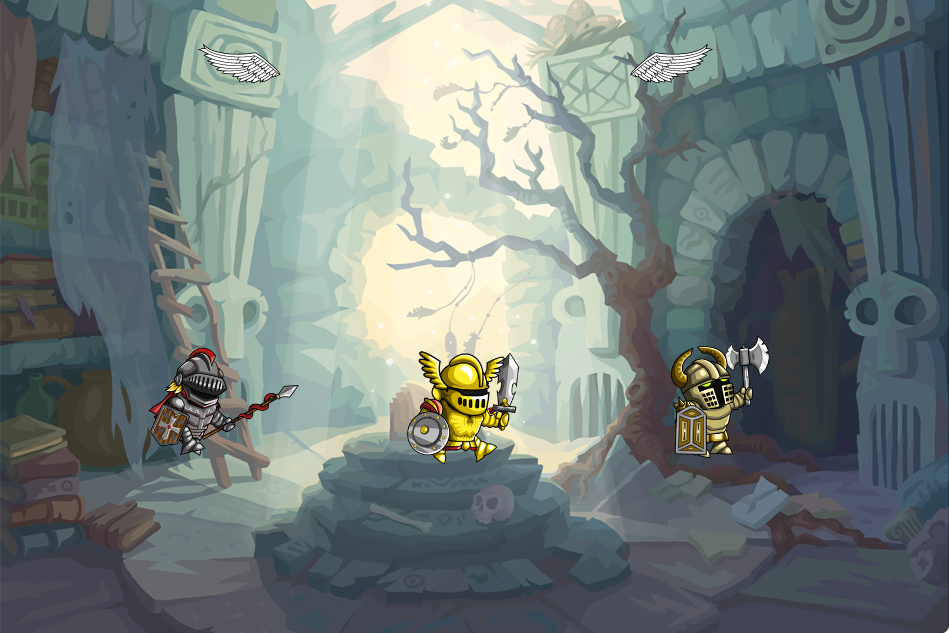
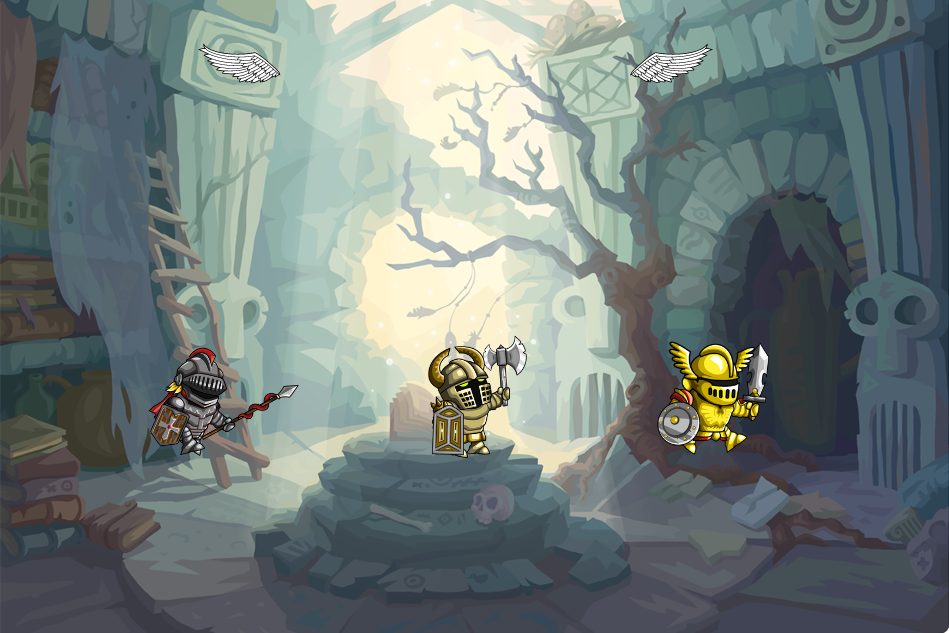
Cập nhật chọn nhân vật
Update thêm ảnh và thứ tự của Class để chọn được nhân vật.

Changed region(s): [[0.4278, 0.5403, 0.5806, 0.7504], [0.6723, 0.5403, 0.8251, 0.7204]]

diff --git a/Bao's test game/Foundation.py b/Bao's test game/Foundation.py
@@ -9,79 +9,7 @@ from tkinter import *
 #Game Options
 font_used = "arial"
 num = 1
-
-#Game Resources
-# Run animation for the RIGHT for three characters
-#Char 1
-run_ani_R = [pygame.image.load(f"Knight_0{num}__IDLE_000.png"), pygame.image.load(f"Knight_0{num}__RUN_000.png"), pygame.image.load(f"Knight_0{num}__RUN_001.png"),
-             pygame.image.load(f"Knight_0{num}__RUN_002.png"), pygame.image.load(f"Knight_0{num}__RUN_003.png"), pygame.image.load(f"Knight_0{num}__RUN_004.png"),
-             pygame.image.load(f"Knight_0{num}__RUN_005.png"), pygame.image.load(f"Knight_0{num}__RUN_006.png"),
-             pygame.image.load(f"Knight_0{num}__RUN_007.png"), pygame.image.load(f"Knight_0{num}__RUN_008.png"),
-             pygame.image.load(f"Knight_0{num}__RUN_009.png")]
-#Resize the image
-run_ani_R_scaled = []
-for i in run_ani_R:
-    k = pygame.transform.scale(i, (450, 250))
-    run_ani_R_scaled.append(k)
-
-# Run animation for the LEFT
-run_ani_L = [pygame.image.load("Knight_01__IDLE_000_L.png"), pygame.image.load("Knight_01__RUN_000_L.png"), pygame.image.load("Knight_01__RUN_001_L.png"),
-             pygame.image.load("Knight_01__RUN_002_L.png"), pygame.image.load("Knight_01__RUN_003_L.png"), pygame.image.load("Knight_01__RUN_004_L.png"),
-             pygame.image.load("Knight_01__RUN_005_L.png"), pygame.image.load("Knight_01__RUN_006_L.png"),
-             pygame.image.load("Knight_01__RUN_007_L.png"), pygame.image.load("Knight_01__RUN_008_L.png"),
-             pygame.image.load("Knight_01__RUN_009_L.png")]
-#Resize the image
-run_ani_L_scaled = []
-for i in run_ani_L:
-    k = pygame.transform.scale(i, (450, 250))
-    run_ani_L_scaled.append(k)
-
-# Attack animation for the RIGHT
-attack_ani_R = [pygame.image.load("Knight_01__IDLE_000.png"), pygame.image.load("Knight_01__ATTACK_000.png"),
-                pygame.image.load("Knight_01__ATTACK_001.png"), pygame.image.load("Knight_01__ATTACK_002.png"),
-                pygame.image.load("Knight_01__ATTACK_003.png"), pygame.image.load("Knight_01__ATTACK_004.png"),
-                pygame.image.load("Knight_01__ATTACK_005.png"), pygame.image.load("Knight_01__ATTACK_006.png"),
-                pygame.image.load("Knight_01__ATTACK_007.png"), pygame.image.load("Knight_01__ATTACK_008.png"),
-                pygame.image.load("Knight_01__ATTACK_009.png"), pygame.image.load("Knight_01__IDLE_000.png")]
-
-#Resize the image
-attack_ani_R_scaled = []
-for i in attack_ani_R:
-    k = pygame.transform.scale(i, (450, 250))
-    attack_ani_R_scaled.append(k)
-
-# Attack animation for the LEFT
-attack_ani_L = [pygame.image.load("Knight_01__IDLE_000_L.png"), pygame.image.load("Knight_01__ATTACK_000_L.png"),
-                pygame.image.load("Knight_01__ATTACK_001_L.png"), pygame.image.load("Knight_01__ATTACK_002_L.png"),
-                pygame.image.load("Knight_01__ATTACK_003_L.png"), pygame.image.load("Knight_01__ATTACK_004_L.png"),
-                pygame.image.load("Knight_01__ATTACK_005_L.png"), pygame.image.load("Knight_01__ATTACK_006_L.png"),
-                pygame.image.load("Knight_01__ATTACK_007_L.png"), pygame.image.load("Knight_01__ATTACK_008_L.png"),
-                pygame.image.load("Knight_01__ATTACK_009_L.png"), pygame.image.load("Knight_01__IDLE_000_L.png")]
-#Resize the image
-attack_ani_L_scaled = []
-for i in attack_ani_L:
-    k = pygame.transform.scale(i, (450, 250))
-    attack_ani_L_scaled.append(k)
-
-# Jump animation for the right jump up
-jump_ani_up = [pygame.image.load("Knight_01__JUMP_007.png"), pygame.image.load("Knight_01__JUMP_008.png"), pygame.image.load("Knight_01__JUMP_009.png")]
-#Resize the image
-jump_ani_up_scaled = []
-for i in jump_ani_up:
-    k = pygame.transform.scale(i, (450, 250))
-    jump_ani_up_scaled.append(k)
-
-# Jump animation for the left jump up
-jump_ani_up_L = [pygame.image.load("Knight_01__JUMP_007_L.png"), pygame.image.load("Knight_01__JUMP_008_L.png"), pygame.image.load("Knight_01__JUMP_009_L.png")]
-#Resize the image
-jump_ani_up_L_scaled = []
-for i in jump_ani_up_L:
-    k = pygame.transform.scale(i, (450, 250))
-    jump_ani_up_L_scaled.append(k)
-
-
-
-#Start the game
+#Game_Parameters
 pygame.init()
 vec = pygame.math.Vector2
 HEIGHT = 600
@@ -93,7 +21,7 @@ FPS_CLOCK = pygame.time.Clock()
 COUNT = 0
 displaysurface = pygame.display.set_mode((WIDTH, HEIGHT))
 
-#required class
+#Welcome_to_the_game
 class Game:
     def __init__(self):
         self.font_name = pygame.font.match_font(font_used)
@@ -117,6 +45,7 @@ class Game:
 
      #Press key to start playing and skip waiting screen
     def wait_for_press(self):
+        global num
         self.waiting = True
         while self.waiting:
             for event in pygame.event.get():
@@ -125,9 +54,89 @@ class Game:
                     pygame.quit()
                     sys.exit()
                 if event.type == pygame.KEYDOWN:
-                    if event.key == pygame.K_SPACE:
+                    if event.key == pygame.K_1:
+                        num = 1
+                        self.waiting = False
+                    elif event.key == pygame.K_2:
+                        num = 2
+                        self.waiting = False
+                    elif event.key == pygame.K_3:
+                        num = 3
                         self.waiting = False
 
+game_start = Game()
+game_start.welcome()
+
+#Game Resources
+# Run animation for the RIGHT for three characters
+#Char 1
+run_ani_R = [pygame.image.load(f"Knight_0{num}__IDLE_000.png"), pygame.image.load(f"Knight_0{num}__RUN_000.png"), pygame.image.load(f"Knight_0{num}__RUN_001.png"),
+             pygame.image.load(f"Knight_0{num}__RUN_002.png"), pygame.image.load(f"Knight_0{num}__RUN_003.png"), pygame.image.load(f"Knight_0{num}__RUN_004.png"),
+             pygame.image.load(f"Knight_0{num}__RUN_005.png"), pygame.image.load(f"Knight_0{num}__RUN_006.png"),
+             pygame.image.load(f"Knight_0{num}__RUN_007.png"), pygame.image.load(f"Knight_0{num}__RUN_008.png"),
+             pygame.image.load(f"Knight_0{num}__RUN_009.png")]
+#Resize the image
+run_ani_R_scaled = []
+for i in run_ani_R:
+    k = pygame.transform.scale(i, (450, 250))
+    run_ani_R_scaled.append(k)
+
+# Run animation for the LEFT
+run_ani_L = [pygame.image.load(f"Knight_0{num}__IDLE_000_L.png"), pygame.image.load(f"Knight_0{num}__RUN_000_L.png"), pygame.image.load(f"Knight_0{num}__RUN_001_L.png"),
+             pygame.image.load(f"Knight_0{num}__RUN_002_L.png"), pygame.image.load(f"Knight_0{num}__RUN_003_L.png"), pygame.image.load(f"Knight_0{num}__RUN_004_L.png"),
+             pygame.image.load(f"Knight_0{num}__RUN_005_L.png"), pygame.image.load(f"Knight_0{num}__RUN_006_L.png"),
+             pygame.image.load(f"Knight_0{num}__RUN_007_L.png"), pygame.image.load(f"Knight_0{num}__RUN_008_L.png"),
+             pygame.image.load(f"Knight_0{num}__RUN_009_L.png")]
+#Resize the image
+run_ani_L_scaled = []
+for i in run_ani_L:
+    k = pygame.transform.scale(i, (450, 250))
+    run_ani_L_scaled.append(k)
+
+# Attack animation for the RIGHT
+attack_ani_R = [pygame.image.load(f"Knight_0{num}__IDLE_000.png"), pygame.image.load(f"Knight_0{num}__ATTACK_000.png"),
+                pygame.image.load(f"Knight_0{num}__ATTACK_001.png"), pygame.image.load(f"Knight_0{num}__ATTACK_002.png"),
+                pygame.image.load(f"Knight_0{num}__ATTACK_003.png"), pygame.image.load(f"Knight_0{num}__ATTACK_004.png"),
+                pygame.image.load(f"Knight_0{num}__ATTACK_005.png"), pygame.image.load(f"Knight_0{num}__ATTACK_006.png"),
+                pygame.image.load(f"Knight_0{num}__ATTACK_007.png"), pygame.image.load(f"Knight_0{num}__ATTACK_008.png"),
+                pygame.image.load(f"Knight_0{num}__ATTACK_009.png"), pygame.image.load(f"Knight_0{num}__IDLE_000.png")]
+
+#Resize the image
+attack_ani_R_scaled = []
+for i in attack_ani_R:
+    k = pygame.transform.scale(i, (450, 250))
+    attack_ani_R_scaled.append(k)
+
+# Attack animation for the LEFT
+attack_ani_L = [pygame.image.load(f"Knight_0{num}__IDLE_000_L.png"), pygame.image.load(f"Knight_0{num}__ATTACK_000_L.png"),
+                pygame.image.load(f"Knight_0{num}__ATTACK_001_L.png"), pygame.image.load(f"Knight_0{num}__ATTACK_002_L.png"),
+                pygame.image.load(f"Knight_0{num}__ATTACK_003_L.png"), pygame.image.load(f"Knight_0{num}__ATTACK_004_L.png"),
+                pygame.image.load(f"Knight_0{num}__ATTACK_005_L.png"), pygame.image.load(f"Knight_0{num}__ATTACK_006_L.png"),
+                pygame.image.load(f"Knight_0{num}__ATTACK_007_L.png"), pygame.image.load(f"Knight_0{num}__ATTACK_008_L.png"),
+                pygame.image.load(f"Knight_0{num}__ATTACK_009_L.png"), pygame.image.load(f"Knight_0{num}__IDLE_000_L.png")]
+#Resize the image
+attack_ani_L_scaled = []
+for i in attack_ani_L:
+    k = pygame.transform.scale(i, (450, 250))
+    attack_ani_L_scaled.append(k)
+
+# Jump animation for the right jump up
+jump_ani_up = [pygame.image.load(f"Knight_0{num}__JUMP_007.png"), pygame.image.load(f"Knight_0{num}__JUMP_008.png"), pygame.image.load(f"Knight_0{num}__JUMP_009.png")]
+#Resize the image
+jump_ani_up_scaled = []
+for i in jump_ani_up:
+    k = pygame.transform.scale(i, (450, 250))
+    jump_ani_up_scaled.append(k)
+
+# Jump animation for the left jump up
+jump_ani_up_L = [pygame.image.load(f"Knight_0{num}__JUMP_007_L.png"), pygame.image.load(f"Knight_0{num}__JUMP_008_L.png"), pygame.image.load(f"Knight_0{num}__JUMP_009_L.png")]
+#Resize the image
+jump_ani_up_L_scaled = []
+for i in jump_ani_up_L:
+    k = pygame.transform.scale(i, (450, 250))
+    jump_ani_up_L_scaled.append(k)
+
+#Game_play class
 class Background(pygame.sprite.Sprite):
     def __init__(self):
         super().__init__()
@@ -274,13 +283,12 @@ class Enemy(pygame.sprite.Sprite):
     def __init__(self):
         super().__init__()
 
-game_start = Game()
+
 background = Background()
 ground = Ground()
 ground_group = pygame.sprite.Group()
 ground_group.add(ground)
 player = Player()
-game_start.welcome()
 
 while game_start.waiting == False:
     for event in pygame.event.get():
@@ -288,10 +296,6 @@ while game_start.waiting == False:
         if event.type == QUIT:
             pygame.quit()
             sys.exit()
-
-            # For events that occur upon clicking the mouse (left click)
-        if event.type == pygame.MOUSEBUTTONDOWN:
-            pass
 
         # Event handling for a range of different key presses
         if event.type == pygame.KEYDOWN:
